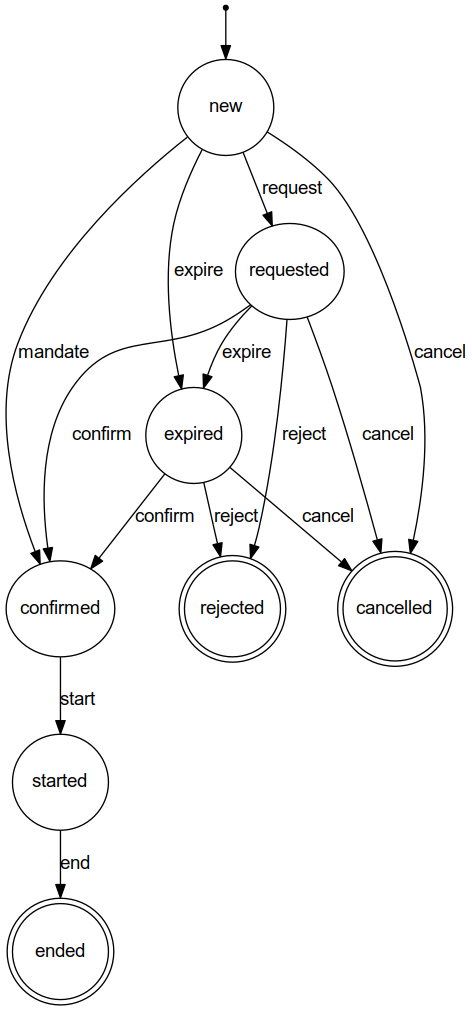
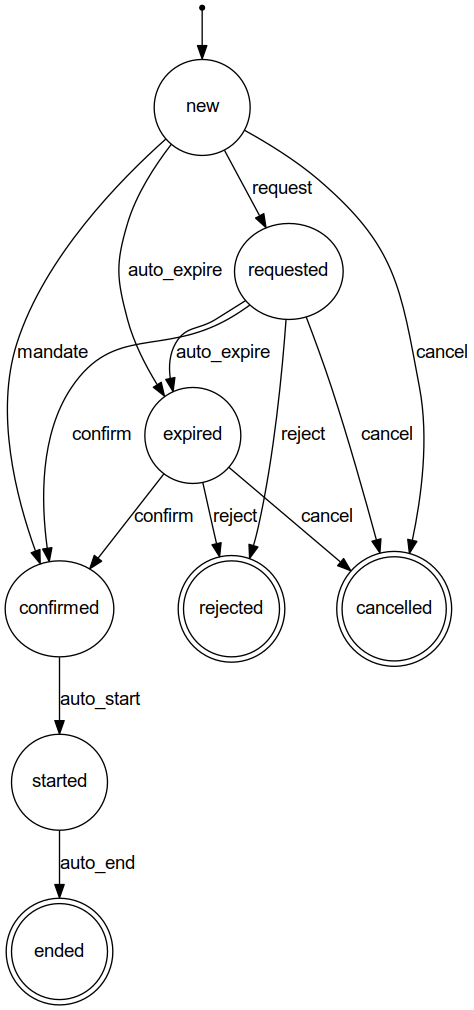
Prefix automatic MW events with `auto_`
This has the advantage of easily distinguishing all of these events from
the other, user-initiated events.

This was prompted by needing to provide events which can be triggered by
users for the same kind of transitions as these, in particular we want
to provide an `end` event which can be triggered by admins to perform
the same transition as the `auto_end` event (previously just `end`).
Having this distinction should make this straightforward to do, while
allowing us to have both distinct messages in both cases and sensible event
names.

diff --git a/spec/models/maintenance_window_spec.rb b/spec/models/maintenance_window_spec.rb
@@ -31,14 +31,14 @@ RSpec.describe MaintenanceWindow, type: :model do
       end
     end
 
-    RSpec.shared_examples 'it can be expired' do
-      it 'can be expired' do
-        subject.expire!
+    RSpec.shared_examples 'it can be auto-expired' do
+      it 'can be auto-expired' do
+        subject.auto_expire!
 
         expect(subject).to be_expired
       end
 
-      it 'has RT ticket comment added when expired' do
+      it 'has RT ticket comment added when auto-expired' do
         subject.component = create(:component, name: 'some_component')
 
         expected_start = subject.requested_start.to_formatted_s(:short)
@@ -54,7 +54,7 @@ RSpec.describe MaintenanceWindow, type: :model do
           :add_ticket_correspondence
         ).with(id: subject.case.rt_ticket_id, text: text_regex)
 
-        subject.expire!
+        subject.auto_expire!
       end
     end
 
@@ -166,14 +166,14 @@ RSpec.describe MaintenanceWindow, type: :model do
       end
     end
 
-    RSpec.shared_examples 'it can be started' do
-      it 'can be started' do
-        subject.start!
+    RSpec.shared_examples 'it can be auto-started' do
+      it 'can be auto-started' do
+        subject.auto_start!
 
         expect(subject).to be_started
       end
 
-      it 'has RT ticket comment added when started' do
+      it 'has RT ticket comment added when auto-started' do
         subject.component = create(:component, name: 'some_component')
 
         expected_end = subject.expected_end.to_formatted_s(:short)
@@ -185,18 +185,18 @@ RSpec.describe MaintenanceWindow, type: :model do
           :add_ticket_correspondence
         ).with(id: subject.case.rt_ticket_id, text: text_regex)
 
-        subject.start!
+        subject.auto_start!
       end
     end
 
-    RSpec.shared_examples 'it can be ended' do
-      it 'can be ended' do
-        subject.end!
+    RSpec.shared_examples 'it can be auto-ended' do
+      it 'can be auto-ended' do
+        subject.auto_end!
 
         expect(subject).to be_ended
       end
 
-      it 'has RT ticket comment added when ended' do
+      it 'has RT ticket comment added when auto-ended' do
         subject.component = create(:component, name: 'some_component')
 
         expect(Case.request_tracker).to receive(:add_ticket_correspondence).with(
@@ -204,7 +204,7 @@ RSpec.describe MaintenanceWindow, type: :model do
           text: /maintenance of some_component .* ended/
         )
 
-        subject.end!
+        subject.auto_end!
       end
     end
 
@@ -212,7 +212,7 @@ RSpec.describe MaintenanceWindow, type: :model do
       subject { create(:maintenance_window, state: :new) }
 
       it_behaves_like 'it can be cancelled'
-      it_behaves_like 'it can be expired'
+      it_behaves_like 'it can be auto-expired'
       it_behaves_like 'it can be requested'
       it_behaves_like 'it can be mandated'
     end
@@ -221,7 +221,7 @@ RSpec.describe MaintenanceWindow, type: :model do
       subject { create(:maintenance_window, state: :requested) }
 
       it_behaves_like 'it can be cancelled'
-      it_behaves_like 'it can be expired'
+      it_behaves_like 'it can be auto-expired'
       it_behaves_like 'it can be confirmed'
       it_behaves_like 'it can be rejected'
     end
@@ -231,7 +231,7 @@ RSpec.describe MaintenanceWindow, type: :model do
         create(:maintenance_window, state: :confirmed)
       end
 
-      it_behaves_like 'it can be started'
+      it_behaves_like 'it can be auto-started'
     end
 
     context 'when started' do
@@ -239,7 +239,7 @@ RSpec.describe MaintenanceWindow, type: :model do
         create(:maintenance_window, state: :started)
       end
 
-      it_behaves_like 'it can be ended'
+      it_behaves_like 'it can be auto-ended'
     end
 
     context 'when expired' do
@@ -260,7 +260,7 @@ RSpec.describe MaintenanceWindow, type: :model do
 
       expect(Case.request_tracker).not_to receive(:add_ticket_correspondence)
 
-      window.end!
+      window.auto_end!
     end
   end
 
@@ -365,7 +365,7 @@ RSpec.describe MaintenanceWindow, type: :model do
 
       it 'returns nil for transition with no associated user saved' do
         maintenance_window = create(:maintenance_window, state: :confirmed)
-        maintenance_window.start!
+        maintenance_window.auto_start!
 
         expect(maintenance_window.started_by).to be nil
       end
@@ -407,14 +407,14 @@ RSpec.describe MaintenanceWindow, type: :model do
     describe '#events' do
       it 'gives all possible events' do
         expect(subject.events).to match_array([
+          :auto_end,
+          :auto_expire,
+          :auto_start,
           :cancel,
           :confirm,
-          :end,
-          :expire,
           :mandate,
           :reject,
           :request,
-          :start,
         ])
       end
     end

diff --git a/app/models/maintenance_notifier.rb b/app/models/maintenance_notifier.rb
@@ -51,7 +51,7 @@ MaintenanceNotifier = Struct.new(:window) do
     EOF
   end
 
-  def expire_comment
+  def auto_expire_comment
     <<~EOF
       Request for maintenance of #{associated_model.name} was not confirmed
       before requested start date of #{requested_start}; this maintenance can
@@ -60,7 +60,7 @@ MaintenanceNotifier = Struct.new(:window) do
     EOF
   end
 
-  def start_comment
+  def auto_start_comment
     <<~EOF
       Scheduled maintenance of #{associated_model.name} has automatically
       started; this #{associated_model.readable_model_name} is now under
@@ -68,7 +68,7 @@ MaintenanceNotifier = Struct.new(:window) do
     EOF
   end
 
-  def end_comment
+  def auto_end_comment
     <<~EOF
       Scheduled maintenance of #{associated_model.name} has automatically
       ended.

diff --git a/app/models/maintenance_window.rb b/app/models/maintenance_window.rb
@@ -32,9 +32,9 @@ class MaintenanceWindow < ApplicationRecord
     event :mandate { transition new: :confirmed }
     event :cancel { transition [:new, :requested, :expired] => :cancelled }
     event :reject { transition [:requested, :expired] => :rejected }
-    event :expire { transition [:new, :requested] => :expired }
-    event :start { transition confirmed: :started }
-    event :end { transition started: :ended }
+    event :auto_expire { transition [:new, :requested] => :expired }
+    event :auto_start { transition confirmed: :started }
+    event :auto_end { transition started: :ended }
 
     after_transition any => any do |model, transition|
       # Use send so can keep method private.

diff --git a/spec/models/maintenance_window_state_transition_spec.rb b/spec/models/maintenance_window_state_transition_spec.rb
@@ -40,7 +40,7 @@ RSpec.describe MaintenanceWindowStateTransition, type: :model do
       admin_only_events = [:request, :mandate, :cancel]
       contact_only_events = [:reject]
       any_user_initiated_events = [:confirm]
-      automatic_events = [:start, :end, :expire, nil]
+      automatic_events = [:auto_start, :auto_end, :auto_expire, nil]
 
       it 'tests cover all possible events' do
         covered_events = [

diff --git a/app/services/progress_maintenance_window.rb b/app/services/progress_maintenance_window.rb
@@ -15,11 +15,11 @@ ProgressMaintenanceWindow = Struct.new(:window) do
   def required_transition_event
     @required_transition_event ||=
       if end_time_passed? && started?
-        :end
+        :auto_end
       elsif start_time_passed? && confirmed?
-        :start
+        :auto_start
       elsif start_time_passed? && not_yet_confirmed?
-        :expire
+        :auto_expire
       end
   end
 

diff --git a/spec/factories/maintenance_window.rb b/spec/factories/maintenance_window.rb
@@ -37,7 +37,7 @@ FactoryBot.define do
       state :started
 
       after(:create) do |window|
-        window.end!
+        window.auto_end!
       end
     end
 
@@ -46,7 +46,7 @@ FactoryBot.define do
 
       after(:create) do |window|
         window.requested_start = 2.days.ago.at_midnight
-        window.expire!
+        window.auto_expire!
       end
     end
   end

diff --git a/app/models/maintenance_window_state_transition.rb b/app/models/maintenance_window_state_transition.rb
@@ -11,9 +11,9 @@ class MaintenanceWindowStateTransition < ApplicationRecord
   private
 
   AUTOMATIC_EVENTS = [
-    :end,
-    :expire,
-    :start,
+    :auto_end,
+    :auto_expire,
+    :auto_start,
     nil,
   ]
 
